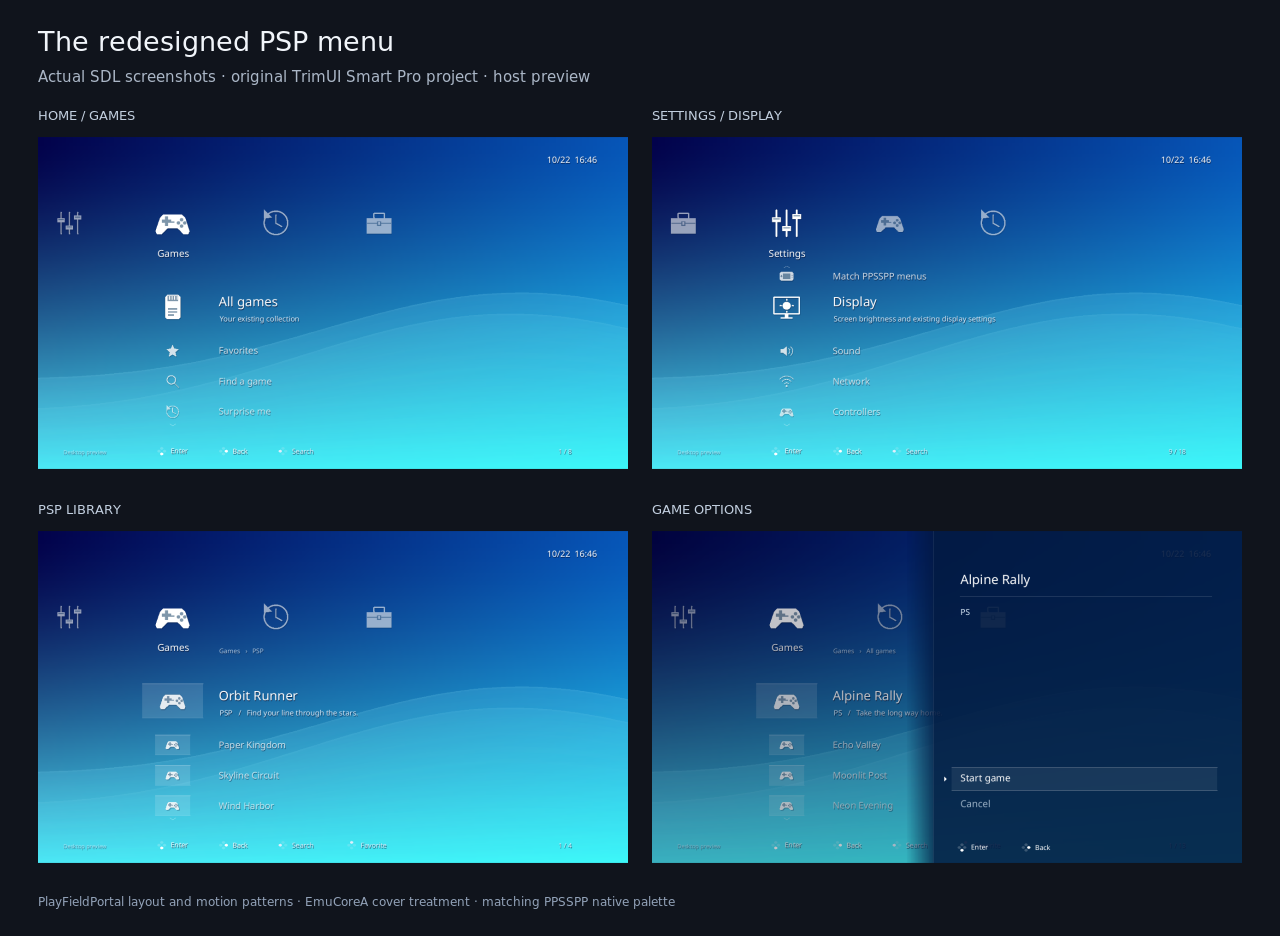
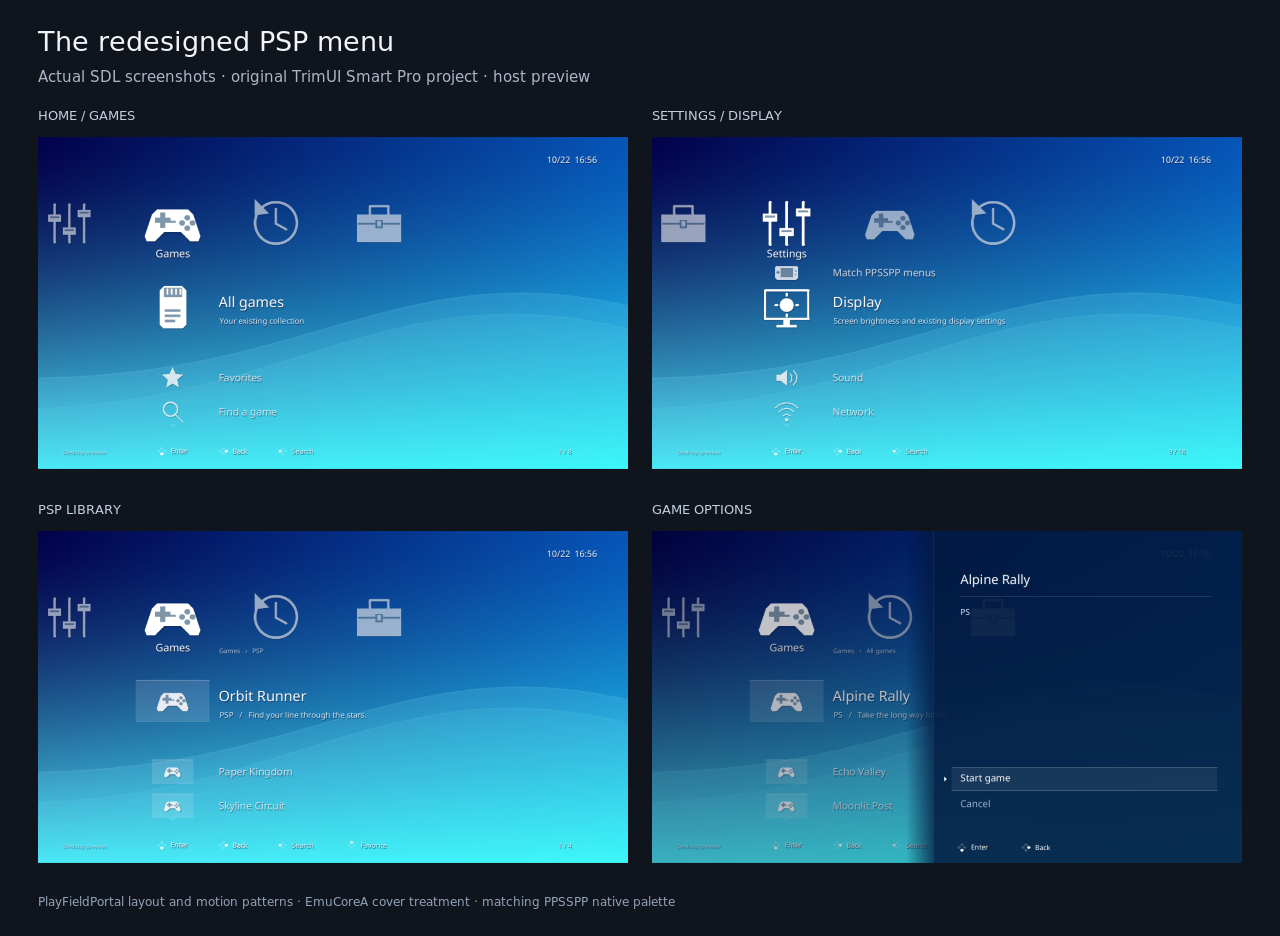
Match original PSP proportions and verify new rendering modules

diff --git a/project/psp_shell/ui/renderer.py b/project/psp_shell/ui/renderer.py
@@ -499,11 +499,11 @@ class Renderer:
             center_x = anchor + delta * spacing
             selected = index == snapshot.category
             proximity = max(0.0, 1 - abs(delta))
-            size = round(72 + proximity * 16)
+            size = round(128 + proximity * 16)
             alpha = 255 if selected or snapshot.preferences.high_contrast else 148
             self._icon(title, center_x - size / 2, center_y - size / 2, size, (255, 255, 255, alpha))
             if selected:
-                size_text = 21
+                size_text = 23
                 scale = min(snapshot.preferences.text_scale, 1.25)
                 width = min(270, self.text.measure(title, round(size_text * scale)))
                 self._text(title, center_x - width / 2, 243, size_text, (255, 255, 255), 270, scale)
@@ -515,8 +515,8 @@ class Renderer:
         if distance < 0:
             return 368 + distance * gap
         if distance < 1:
-            return 368 + distance * (gap + 30)
-        return 398 + distance * gap
+            return 368 + distance * (gap + 80)
+        return 448 + distance * gap
 
     @staticmethod
     def _item_icon(item: UIItem) -> str:
@@ -531,7 +531,7 @@ class Renderer:
         scale = prefs.text_scale
         identity = (snapshot.category, snapshot.title, snapshot.breadcrumb)
         position = self._item_glide.position(snapshot.selected, now, identity, prefs.motion)
-        gap = max(66, round(62 * min(scale, 1.65)))
+        gap = max(74, round(70 * min(scale, 1.65)))
         clip = sdl2.SDL_Rect(172, 280, 1035, 348)
         sdl2.SDL_RenderSetClipRect(self.renderer, ctypes.byref(clip))
         try:
@@ -550,26 +550,27 @@ class Renderer:
                 color = primary if selected else (*primary[:3], alpha)
                 # Scale makes focus readable without an opaque tile or bar.
                 if item.kind == "game":
-                    width, height = round(76 + 56 * emphasis), round(43 + 31 * emphasis)
+                    width, height = round(90 + 70 * emphasis), round(51 + 39 * emphasis)
                     self._artwork(item, round(292 - width / 2), round(y - height / 2), width, height, prefs)
                 else:
-                    size = round(36 + 34 * emphasis)
+                    size = round(60 + 60 * emphasis)
                     self._icon(self._item_icon(item), 292 - size / 2, y - size / 2, size, color)
-                title_size = 28 if selected else 20
+                title_size = 31 if selected else 22
                 title_scale = scale if selected else min(scale, 1.35)
                 title_y = y - (24 if selected else 10)
-                self._text(item.title, 391, title_y, title_size, color, 780, title_scale)
+                title_width, _ = self._text(item.title, 391, title_y, title_size, color,
+                                            740 if item.favorite else 780, title_scale)
                 if selected:
                     subtitle = item.subtitle
                     if item.kind == "game":
                         subtitle = (item.system_id + "   /   " + subtitle).strip(" / ")
                     if subtitle:
-                        self._text(subtitle, 393, y + max(18, round(17 * scale)), 16, muted, 763, min(scale, 1.35))
+                        self._text(subtitle, 393, y + max(23, round(20 * scale)), 17, muted, 763, min(scale, 1.35))
                     if item.favorite:
-                        self._icon("favorites", 354, title_y + 2, 22, primary)
+                        self._icon("favorites", 405 + title_width, title_y + 2, 22, primary)
             if position > .05:
                 self._polyline([(286, 283), (292, 279), (298, 283)], (*primary[:3], 130))
-            if position + 3 < len(snapshot.items):
+            if self._row_y(len(snapshot.items) - 1 - position, gap) > 620:
                 self._polyline([(286, 622), (292, 626), (298, 622)], (*primary[:3], 130))
         finally:
             sdl2.SDL_RenderSetClipRect(self.renderer, None)

diff --git a/project/tests/test_release_integration.py b/project/tests/test_release_integration.py
@@ -263,6 +263,17 @@ class ReleaseIntegrationTests(unittest.TestCase):
         self.assertIn("from bridge.process_source import stage_existing_command", miyoo)
         self.assertTrue((output / "tree" / integration.PAYLOAD_ROOT / "app/bridge/principal.py").is_file())
         self.assertTrue((output / "tree" / integration.PAYLOAD_ROOT / "assets/fonts/NotoSans.ttf").is_file())
+        ui_modules = {"app/psp_shell/ui/" + path.name for path in (PROJECT / "psp_shell/ui").glob("*.py")}
+        required = set(record["bridge_review"]["required_project_modules"])
+        self.assertTrue(ui_modules <= required, ui_modules - required)
+        with integration.overlay.VerifiedArchive(archive, integration.overlay.load_key(key, 32)) as verified:
+            signed = {item["path"]: item["sha256"] for item in verified.manifest["files"]}
+        retained = {item["path"]: item["sha256"] for item in record["artifact_files"]}
+        for module in ("motion.py", "pictograms.py"):
+            relative = "app/psp_shell/ui/" + module
+            expected = hashlib.sha256((PROJECT / "psp_shell/ui" / module).read_bytes()).hexdigest()
+            self.assertEqual(signed[relative], expected)
+            self.assertEqual(retained["tree/" + integration.PAYLOAD_ROOT + "/" + relative], expected)
         self.assertIn("TRIMUI_PROJECT_STATE_REQUEST", (output / "tree/spruce/scripts/emu/lib/ppsspp_functions.sh").read_text())
         restored = self.root / "process-restored"
         restore = integration.restore_private_candidate(output, restored, public_key=key)
@@ -285,11 +296,15 @@ class ReleaseIntegrationTests(unittest.TestCase):
         output = self.root / "changed-original-module"
         integration.assemble_private_candidate(self.source, output, source_review=self.review,
             overlay_archive=archive, public_key=key)
-        module = output / "tree" / integration.PAYLOAD_ROOT / "app/bridge/principal.py"
-        module.write_bytes(b"raise RuntimeError('modified outside the verified original payload')\n")
-        self.rewrite_manifest(output, lambda value: value.update(artifact_files=integration._artifact_inventory(output)))
-        with self.assertRaisesRegex(integration.IntegrationError, "differs from its signed payload"):
-            integration.verify_candidate(output, public_key=key)
+        for name in ("app/bridge/principal.py", "app/psp_shell/ui/motion.py", "app/psp_shell/ui/pictograms.py"):
+            with self.subTest(module=name):
+                module = output / "tree" / integration.PAYLOAD_ROOT / name
+                original = module.read_bytes()
+                module.write_bytes(b"raise RuntimeError('modified outside the verified original payload')\n")
+                self.rewrite_manifest(output, lambda value: value.update(artifact_files=integration._artifact_inventory(output)))
+                with self.assertRaisesRegex(integration.IntegrationError, "differs from its signed payload"):
+                    integration.verify_candidate(output, public_key=key)
+                module.write_bytes(original)
 
     def test_optional_state_session_is_retained_only_when_explicitly_selected(self):
         default = integration.prepare_review_kit(self.source, self.root / "default-state-off")

diff --git a/project/tests/test_principal_integration.py b/project/tests/test_principal_integration.py
@@ -331,14 +331,21 @@ finally:
         self.run_code(r"""
 import threading
 from bridge.resident import PrincipalLease
+from psp_shell.health import FrontendHealth
 health,expected=fixture_pending_command(config,('printf once >> '+str(ROOT/'launch-count')+'\n').encode())
 barrier=threading.Barrier(2);consume=PrincipalLease.consume_source;results=[]
+# Exercise closure consumption after both real health reads complete. The
+# health lock intentionally rejects concurrent readers before this seam.
+foreground_lock=threading.Lock();read_foreground=FrontendHealth.foreground_identity
+def serialized_foreground(self):
+    with foreground_lock:return read_foreground(self)
 def synchronized(self,*args): barrier.wait(timeout=3);return consume(self,*args)
-def command():
-    try: PrincipalBoundary(config).run_command();results.append('complete')
+def command(boundary):
+    try: boundary.run_command();results.append('complete')
     except ContractError as error: results.append(error.code)
-with patch.object(PrincipalLease,'consume_source',synchronized):
-    threads=[threading.Thread(target=command) for _ in range(2)]
+boundaries=[PrincipalBoundary(config) for _ in range(2)]
+with patch.object(FrontendHealth,'foreground_identity',serialized_foreground),patch.object(PrincipalLease,'consume_source',synchronized):
+    threads=[threading.Thread(target=command,args=(boundary,)) for boundary in boundaries]
     for thread in threads:thread.start()
     for thread in threads:thread.join(timeout=5)
 assert sorted(results)==['SOURCE_CLOSURE_UNVERIFIED','complete'],results

diff --git a/project/tests/test_ui_artwork_async.py b/project/tests/test_ui_artwork_async.py
@@ -109,7 +109,7 @@ class ArtworkRepaintTests(unittest.TestCase):
                 def neighbors_loaded():
                     if renderer.needs_frame(snapshot, 10):
                         renderer.render(snapshot, 10)
-                    return {"cover0", "cover1", "cover2", "cover3"} <= set(renderer._art)
+                    return {"cover0", "cover1", "cover2"} <= set(renderer._art)
                 self.assertTrue(wait_until(neighbors_loaded))
                 # More rows than both queue and texture cache exercise misses
                 # after scrolling, rather than one permanent requested marker.

diff --git a/project/bridge/principal_integration.py b/project/bridge/principal_integration.py
@@ -90,6 +90,8 @@ REQUIRED_PROJECT_MODULES = [
     'app/psp_shell/ui/artwork.py',
     'app/psp_shell/ui/input.py',
     'app/psp_shell/ui/model.py',
+    'app/psp_shell/ui/motion.py',
+    'app/psp_shell/ui/pictograms.py',
     'app/psp_shell/ui/renderer.py',
     'app/psp_shell/ui/text.py',
 ]

diff --git a/HANDOVER.md b/HANDOVER.md
@@ -16,7 +16,7 @@ The owner explicitly requested use of PPSSPP, JohnnyCollado/PlayFieldPortal and 
 
 Review the [new screens](project/evidence/psp-design/gallery.png), [actual Sony PSP comparison](project/evidence/psp-design/comparison.png), [individual home capture](project/evidence/psp-design/home.png) and [verification record](project/evidence/psp-design/verification.json). Captures are SDL host renders, not physical-device photos. The Sony reference is comparison evidence outside the development payload.
 
-Local validation passed all 479 host/source and 61 PPSSPP checks with zero skips/failures/errors, followed by all 8 final rendering checks including two later keyboard/SDL regressions. The dev5 original-only package passes signature/inventory, deterministic rebuilds, installed-payload smoke and fixture rollback. Current code therefore has 542 checks for final CI discovery. Physical TG5040 acceptance and previously recorded external release evidence remain open; no installed emulator or activation gate changed.
+Local validation passed all 479 host/source and 61 PPSSPP checks with zero skips/failures/errors, followed by all 44 final UI checks and 40 final principal/source-binding/release checks. The two added rendering cases cover the clean keyboard and older/unsupported SDL paths. The dev5 original-only package passes signature/inventory, deterministic rebuilds, installed-payload smoke and fixture rollback. Current code therefore has 542 checks for final CI discovery. Physical TG5040 acceptance and previously recorded external release evidence remain open; no installed emulator or activation gate changed. Both new rendering modules are now mandatory in the verified module inventory. A preexisting CI race fixture was made deterministic by serializing only its real preflight health reads; production locks and exact one-use consumption assertions are unchanged. The final dev5 package is at `/workspace/scratch/trimui-design-development-final`.
 
 ## Continuation — 22 October 2026
 
